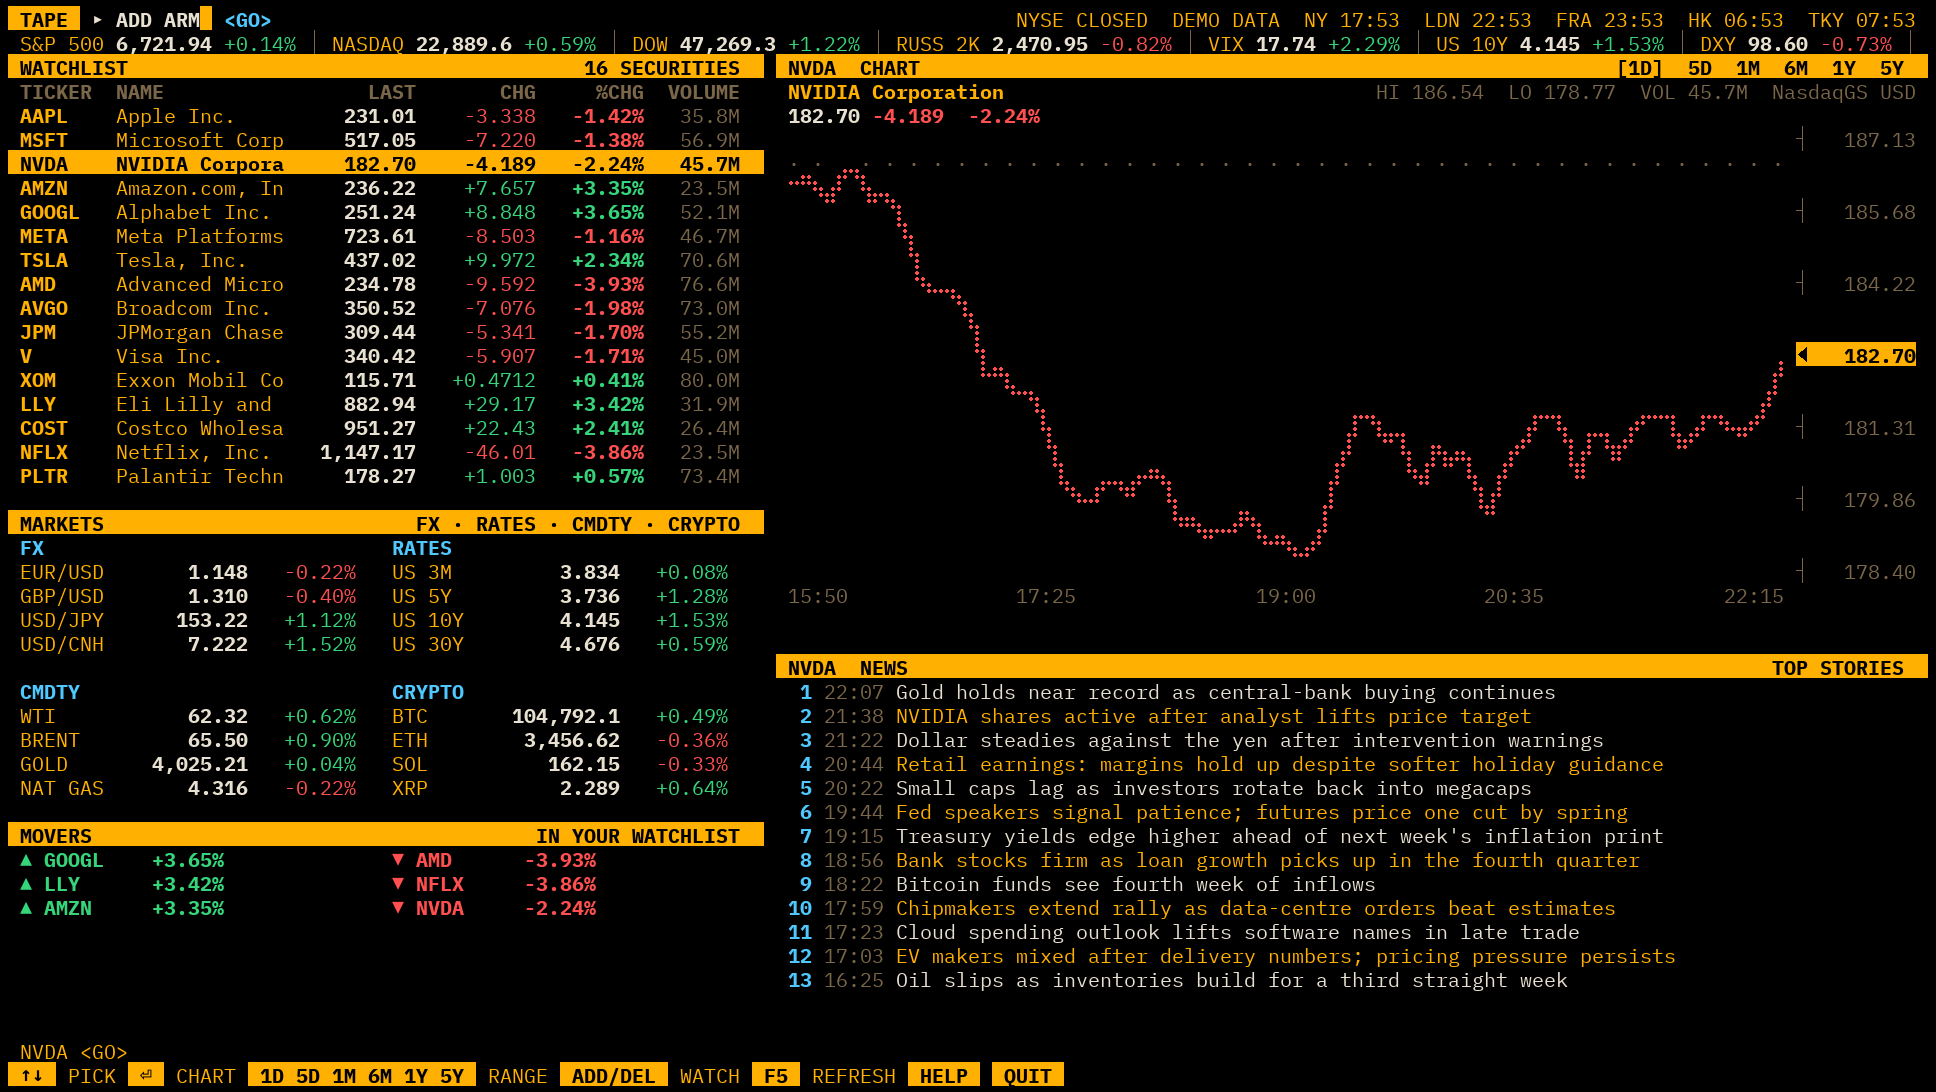
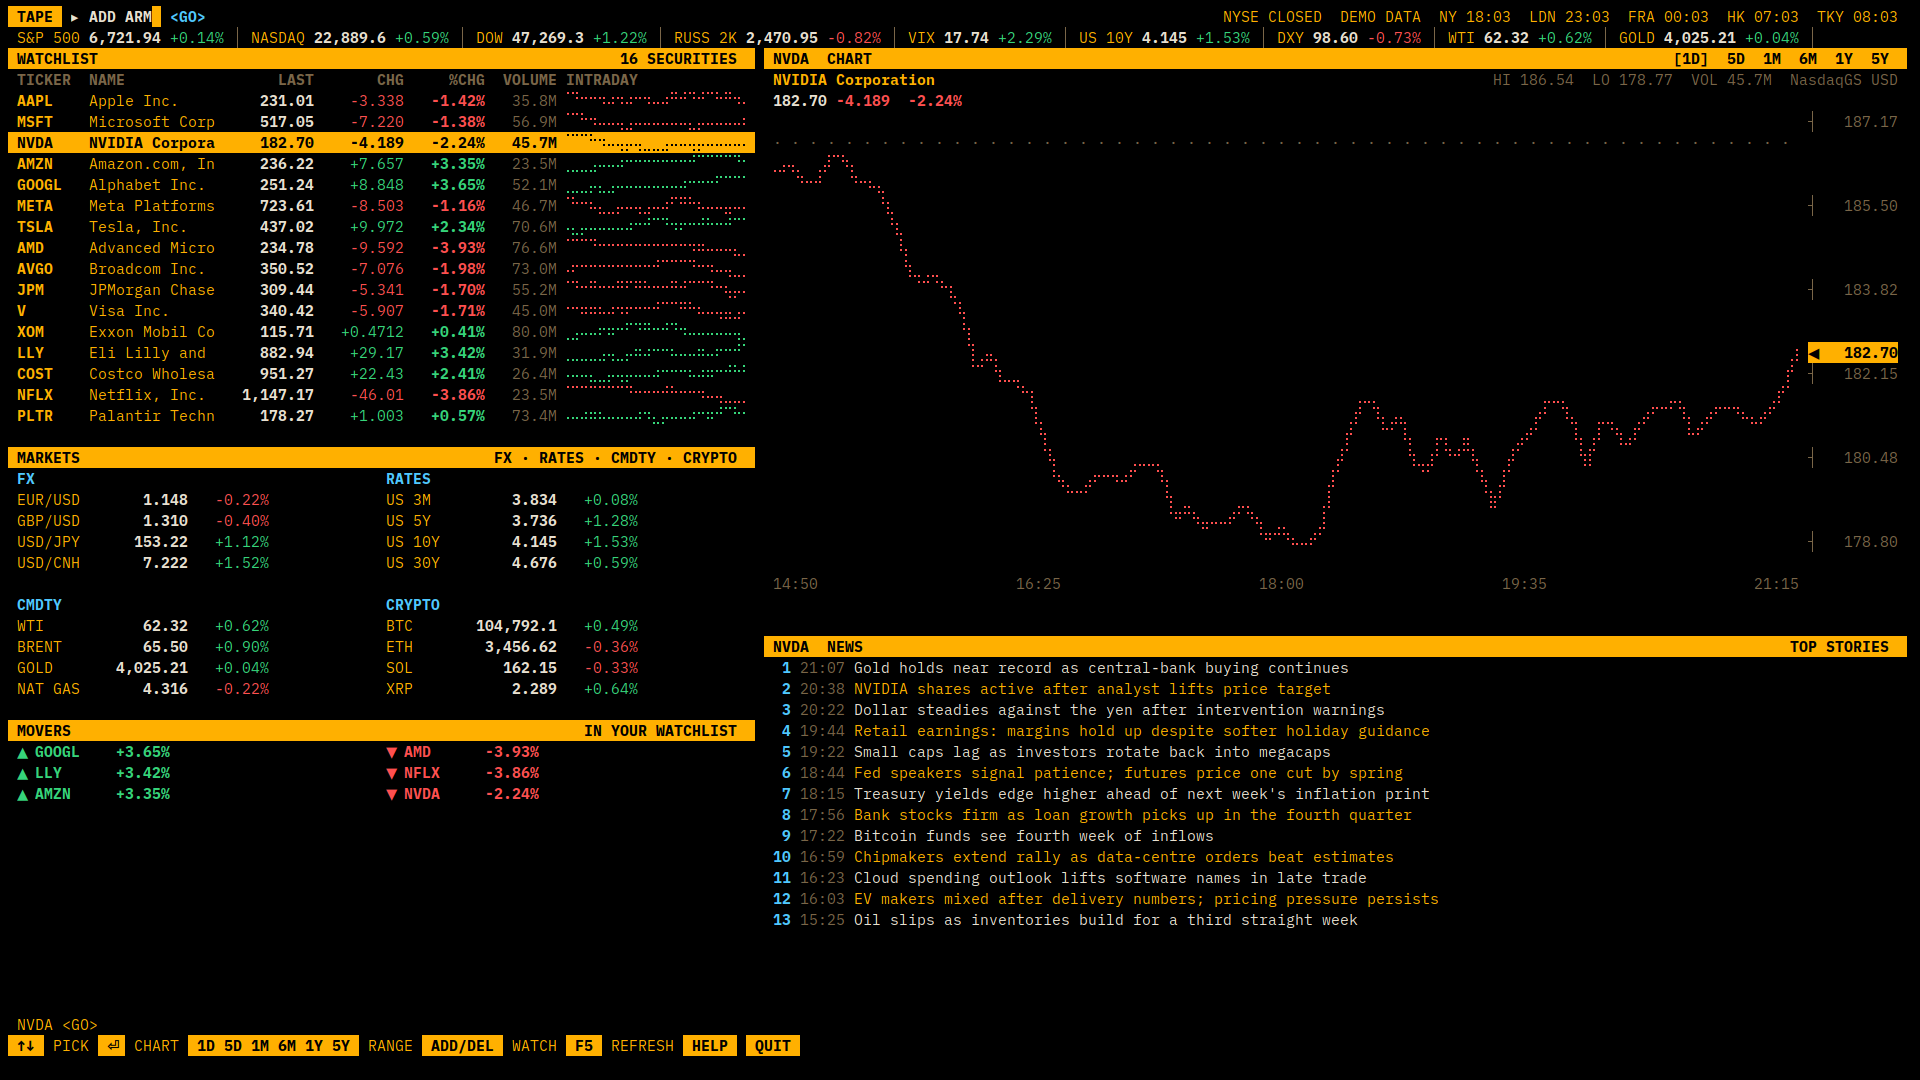
tape: real screenshots, braille sparklines, ADD ignores ranges
The screenshots are now foot itself (IBM Plex Mono, the rice's palette)
in demo mode, taken with grim under headless sway: the NVDA intraday
hero, a one-year AAPL chart and the HELP overlay. RICE.md shows all
three.

Sparklines are one braille row now. Block characters looked like heavy
bars at real font sizes. The chart axis no longer crowds its last tick.

`ADD ARM 1Y` used to put "1Y" on the watchlist. ADD now skips range
names and says what it wants if nothing is left.

diff --git a/rices/tape/RICE.md b/rices/tape/RICE.md
@@ -8,6 +8,11 @@ crypto, the day's movers and the time in five financial centres.
 
 ![tape in demo mode](screenshots/tape.png)
 
+<p>
+<img src="screenshots/tape-1y.png" alt="tape charting AAPL over a year" width="49%">
+<img src="screenshots/tape-help.png" alt="tape's HELP overlay listing its commands" width="49%">
+</p>
+
 Type a ticker and press Enter to chart it. `AAPL 1Y` charts a year,
 `ADD NVDA AMD` and `DEL TSLA` edit the watchlist, ↑ ↓ pick a row, F5
 refreshes now, `HELP` lists the rest. Any Yahoo Finance symbol works:
